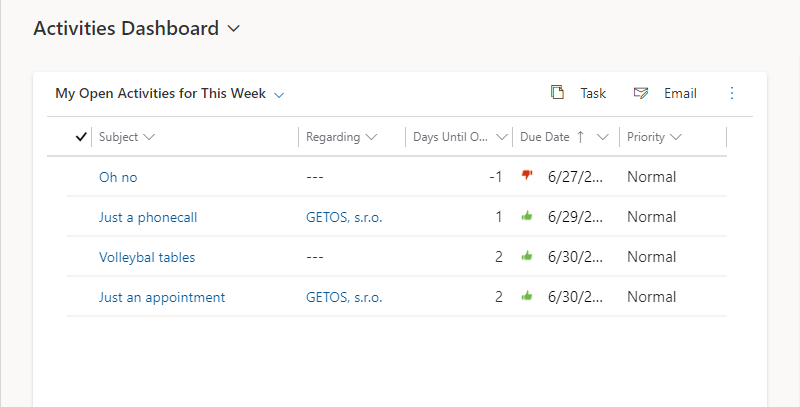
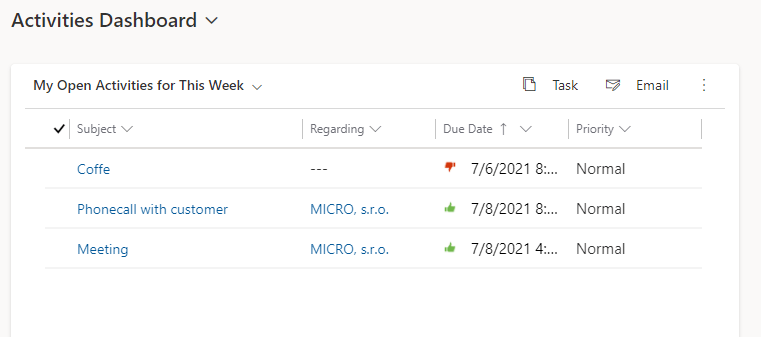
finish activities overview

diff --git a/src/en/user-guide/model-driven-apps/business-process/contact-management/track-and-manage-activities.md b/src/en/user-guide/model-driven-apps/business-process/contact-management/track-and-manage-activities.md
@@ -8,10 +8,21 @@ author: Timotej Paluš
 In the **Activities Overview** there is an overview of activities within the entire contact management. Here you can find your open activities for this week, open overdue activities, etc.
 
 **My Open Activities for this Week**  
+Here you will find all your activities for this week before and after the due date.  
+| Thumb type        | Meaning           |
+| :-------------: | :------------- |
+| ![Thumb up](/.attachments/ModelDrivenAppUserGuide/thumbUp.png)    | The activity is due |
+| ![Thumb down](/.attachments/ModelDrivenAppUserGuide/thumbDown.png)    | The activity is overdue   |
 ![My Open Activities for this Week](/.attachments/ModelDrivenAppUserGuide/openActivitiesForThisWeek.png)
 
 **My Open Overdue activities**  
-![My Open Overdue activities](/.attachments/ModelDrivenAppUserGuide/overdueActivities.png)
+![My Open Overdue activities](/.attachments/ModelDrivenAppUserGuide/overdueActivity.png)
+
+**All open activities**  
+The graph shows overdue, planned, unplanned activities.  
+![My Open Overdue activities](/.attachments/ModelDrivenAppUserGuide/allActivitiesGraph.png)
+
+There are other tables on the activity dashboard such as My open unplanned activities, Active tasks blocked by me, etc.
 
 ## Set scheduled follow-up activity
 If you are creating an activity from a timeline, the scheduled follow-up activity is set automatically by filling in the regarding field. However, if you create a new activity outside the timeline, you have the option to set an entry in the **Regarding** field.

diff --git a/src/en/user-guide/model-driven-apps/business-process/sales/gain-insights-with-dashboards.md b/src/en/user-guide/model-driven-apps/business-process/sales/gain-insights-with-dashboards.md
@@ -6,7 +6,14 @@ author: Timotej Paluš
 In the sales overview you will see an overview of all opportunities in one place. You can easily find open opportunities, best customers by estimated value, opportunities and their process stage by owners etc.
 To learn more about the dashboard, see [Dashboards](/en/user-guide/model-driven-apps/basic-app-elements/dashboards).
 ## Where to find sales dashboards
-Dashboards are in the sitemap as **Sales Overview** in dashboards group
+Dashboards are in the sitemap as **Sales Overview** in dashboards group.
 
 ![Dashboards navigation](/.attachments/ModelDrivenAppUserGuide/dashboardsNavigation.png)
+
+## What you can find on dashboards
+
+**Your open opportunities**  
+Here you will find all your open opportunities. You can create new opportunities with the + **New** button. You can edit an opportunity by highlighting the line and pressing the **Edit** button. The table works as a subgrid, if you want to know more go to the [Subgrid](/en/user-guide/model-driven-apps/basic-app-elements/subgrid) page.
+
+![My open opportunities](/.attachments/ModelDrivenAppUserGuide/myOpenOpp.png)
 
